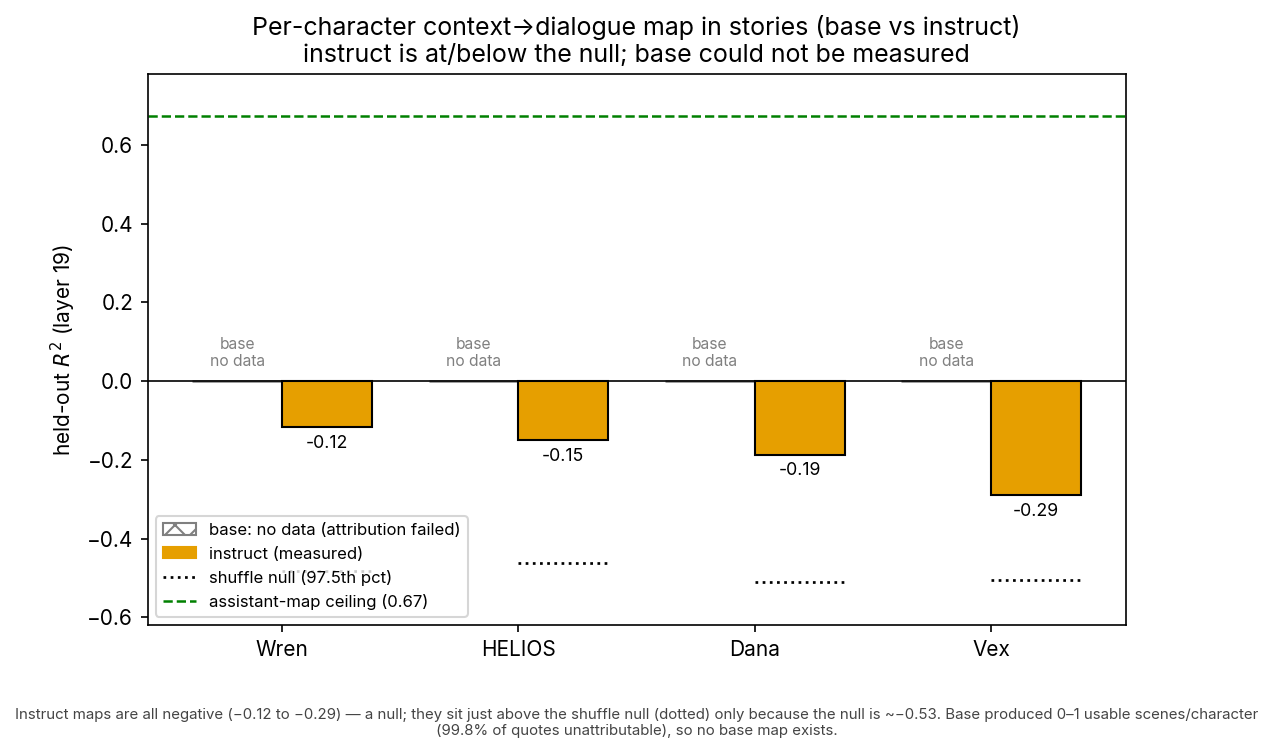
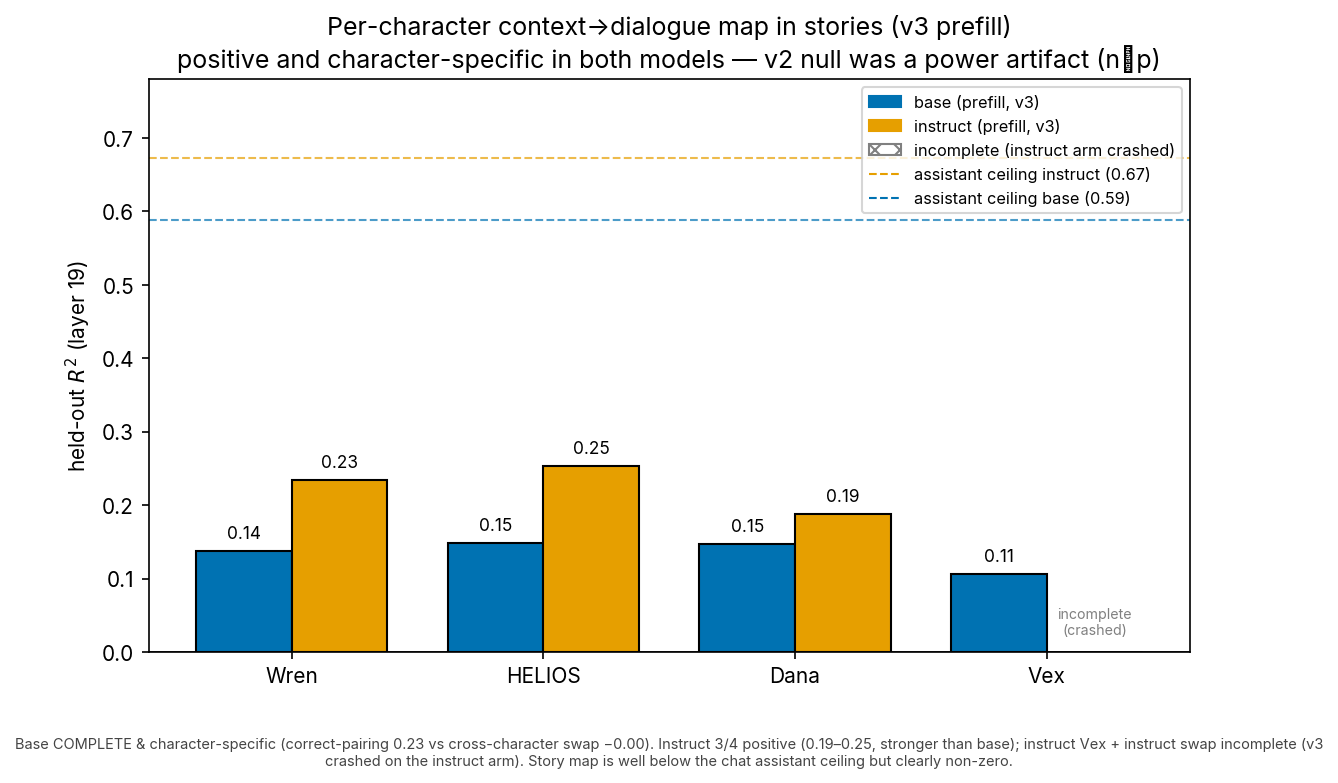
figures(#1310): CORRECT per-character R2 from v3 prefill cells (supersedes stale-v2 version)
The prior version read the stale v2 summary.json (base null, instruct negative).
The v3 prefill run FLIPPED that null (v2 negative = power artifact n<<d): base
0.11-0.15 (complete, character-specific), instruct 0.19-0.25 for 3/4. instruct Vex
+ instruct swap incomplete (v3 crashed on the instruct arm). Reads v3 cells directly.

Generated with [Claude Code](https://claude.ai/code)
via [Happy](https://happy.engineering)

diff --git a/figures/issue_1310/perpersona_r2_clean.py b/figures/issue_1310/perpersona_r2_clean.py
@@ -1,16 +1,19 @@
 #!/usr/bin/env python
-"""#1310 per-character context->dialogue map — clean base-vs-instruct figure.
+"""#1310 per-character context->dialogue map — CORRECTED v3 figure.
 
-Fixes the silent-null problem of perpersona_r2.png: the base arm produced no
-attributable dialogue (0-1 usable scenes/character), so its R^2 is null and the
-original figure just drew nothing. Here the base absence is drawn EXPLICITLY
-("no data") so the figure reads correctly instead of looking like a plotting bug.
+Reads the v3 (prefill) per-persona cells DIRECTLY (not the stale v2 summary.json,
+which still aggregates the pre-prefill free-generation run). The v3 prefill run
+FLIPPED the v2 null: the v2 negative R^2 was a power artifact (n~118-161 << d=3584);
+prefill gives n in the thousands and the per-character map is positive AND
+character-specific in both models.
 
-Per character: instruct held-out R^2 @ layer 19 (real, all negative), a marker at
-the shuffle-null 97.5th percentile it "clears", and an explicit base "no data"
-placeholder. Assistant-map ceiling (#825 instruct 0.673) drawn for reference.
+A cell is treated as v3 iff its metadata.git_commit starts with V3_COMMIT; any cell
+still on the stale v2 commit is drawn as an explicit "incomplete (crashed)" bar
+(the v3 run crashed on the instruct arm before instruct-Vex + the instruct swap
+control, so those remain stale v2).
 
-All values read from eval_results/issue_1310/summary.json (no hardcoding).
+Source: eval_results/issue_1310/cells_{base,instruct}_{persona}.json (v3 cells are
+UNTRACKED on the VM + in the HF crash-persist issue1310_partial/att-20260715-052017).
 """
 
 from __future__ import annotations
@@ -22,7 +25,11 @@ from pathlib import Path
 
 HERE = Path(__file__).resolve().parent
 REPO = HERE.parents[1]
-SUMMARY = REPO / "eval_results/issue_1310/summary.json"
+CELLS = REPO / "eval_results/issue_1310"
+V3_COMMIT = "942df1bb2a"  # prefill (v3) fit commit
+ORDER = ["Wren", "HELIOS", "Dana", "Vex"]
+# #825 assistant-map ceiling (single-turn chat)
+CEIL_INST, CEIL_BASE = 0.673, 0.588
 
 
 def _git_head() -> str:
@@ -34,12 +41,25 @@ def _git_head() -> str:
         return f"unresolved: {e}"
 
 
+def _read_cell(model: str, persona: str):
+    """Return (r2_L19, n, is_v3) or None if missing."""
+    f = CELLS / f"cells_{model}_{persona}.json"
+    if not f.exists():
+        return None
+    d = json.loads(f.read_text())
+    r2 = d["r2_per_layer_obs"][19]
+    n = d.get("n")
+    is_v3 = str(d.get("metadata", {}).get("git_commit", "")).startswith(V3_COMMIT)
+    return (r2, n, is_v3)
+
+
 def main() -> None:
     import matplotlib
 
     matplotlib.use("Agg")
     import matplotlib.pyplot as plt
     from matplotlib import font_manager
+    from matplotlib.lines import Line2D
     from matplotlib.patches import Patch
 
     for fp in font_manager.findSystemFonts(fontpaths=None):
@@ -49,94 +69,80 @@ def main() -> None:
     with contextlib.suppress(Exception):
         plt.rcParams["font.family"] = "Inter"
 
-    s = json.loads(SUMMARY.read_text())
-    order = ["Wren", "HELIOS", "Dana", "Vex"]
-    pp = s["per_persona"]
-    inst_r2 = [pp[k]["instruct"]["r2_headline"] for k in order]
-    inst_null = [pp[k]["instruct"]["null_p975_headline"] for k in order]
-    base_present = [pp[k]["base"] is not None for k in order]
-    ceil_inst = s["assistant_ceiling"]["S1"]["r2_headline"]  # 0.673
-
-    C_BASE, C_INST = "#0072B2", "#E69F00"  # colorblind-safe
+    C_BASE, C_INST = "#0072B2", "#E69F00"
     w = 0.38
-    xs = list(range(len(order)))
+    xs = list(range(len(ORDER)))
+    got = {(m, p): _read_cell(m, p) for m in ("base", "instruct") for p in ORDER}
 
-    fig, ax = plt.subplots(figsize=(8.5, 5.2))
-    for i, k in enumerate(order):
-        # base: explicit "no data" placeholder (no measured value exists)
-        if base_present[i]:
-            ax.bar(i - w / 2, pp[k]["base"]["r2_headline"], w, color=C_BASE, edgecolor="black")
-        else:
-            ax.bar(i - w / 2, 0.0, w, color="none", edgecolor="grey", linewidth=1.2, hatch="xx")
-            ax.text(
-                i - w / 2,
-                0.03,
-                "base\nno data",
-                ha="center",
-                va="bottom",
-                fontsize=7.5,
-                color="grey",
-            )
-        # instruct: real (negative) bar
-        r = inst_r2[i]
-        ax.bar(i + w / 2, r, w, color=C_INST, edgecolor="black")
-        ax.text(i + w / 2, r - 0.02, f"{r:.2f}", ha="center", va="top", fontsize=8.5)
-        # null p97.5 marker the instruct bar clears
-        ax.plot(
-            [i + w / 2 - w / 2, i + w / 2 + w / 2],
-            [inst_null[i], inst_null[i]],
-            color="black",
-            lw=1.3,
-            ls=":",
-        )
+    fig, ax = plt.subplots(figsize=(9.0, 5.4))
+    for i, p in enumerate(ORDER):
+        for side, model, color in ((-1, "base", C_BASE), (1, "instruct", C_INST)):
+            x = i + side * w / 2
+            cell = got[(model, p)]
+            if cell is not None and cell[2]:  # v3, real
+                r2, n, _ = cell
+                ax.bar(x, r2, w, color=color, edgecolor="black")
+                ax.text(x, r2 + 0.012, f"{r2:.2f}", ha="center", va="bottom", fontsize=8.3)
+            else:  # missing or stale-v2 => incomplete
+                ax.bar(x, 0.0, w, color="none", edgecolor="grey", linewidth=1.2, hatch="xx")
+                ax.text(
+                    x,
+                    0.02,
+                    "incomplete\n(crashed)",
+                    ha="center",
+                    va="bottom",
+                    fontsize=6.8,
+                    color="grey",
+                )
 
     ax.axhline(0.0, color="black", lw=0.8)
-    ax.axhline(
-        ceil_inst,
-        color="green",
-        ls="--",
-        lw=1.2,
-        label=f"assistant-map ceiling (instruct, #825 = {ceil_inst:.2f})",
+    ax.axhline(CEIL_INST, color=C_INST, ls="--", lw=1.0, alpha=0.7)
+    ax.axhline(CEIL_BASE, color=C_BASE, ls="--", lw=1.0, alpha=0.7)
+    ax.set_xticks(xs)
+    ax.set_xticklabels(ORDER, fontsize=10)
+    ax.set_ylabel("held-out $R^2$ (layer 19)")
+    ax.set_ylim(0, 0.78)
+    ax.set_title(
+        "Per-character context→dialogue map in stories (v3 prefill)\n"
+        "positive and character-specific in both models — v2 null was a power artifact (n≪p)"
     )
-    # legend proxy for the null marker
-    from matplotlib.lines import Line2D
-
     handles = [
+        Patch(color=C_BASE, label="base (prefill, v3)"),
+        Patch(color=C_INST, label="instruct (prefill, v3)"),
         Patch(
             facecolor="none",
             edgecolor="grey",
             hatch="xx",
-            label="base: no data (attribution failed)",
+            label="incomplete (instruct arm crashed)",
         ),
-        Patch(color=C_INST, label="instruct (measured)"),
-        Line2D([0], [0], color="black", ls=":", lw=1.3, label="shuffle null (97.5th pct)"),
         Line2D(
             [0],
             [0],
-            color="green",
+            color=C_INST,
             ls="--",
-            lw=1.2,
-            label=f"assistant-map ceiling ({ceil_inst:.2f})",
+            lw=1.0,
+            label=f"assistant ceiling instruct ({CEIL_INST:.2f})",
+        ),
+        Line2D(
+            [0],
+            [0],
+            color=C_BASE,
+            ls="--",
+            lw=1.0,
+            label=f"assistant ceiling base ({CEIL_BASE:.2f})",
         ),
     ]
-    ax.set_xticks(xs)
-    ax.set_xticklabels(order, fontsize=10)
-    ax.set_ylabel("held-out $R^2$ (layer 19)")
-    ax.set_ylim(-0.62, 0.78)
-    ax.set_title(
-        "Per-character context→dialogue map in stories (base vs instruct)\n"
-        "instruct is at/below the null; base could not be measured"
-    )
-    ax.legend(handles=handles, fontsize=8, loc="lower left")
+    ax.legend(handles=handles, fontsize=7.8, loc="upper right", ncol=1)
     ax.text(
         0.5,
         -0.15,
-        "Instruct maps are all negative (−0.12 to −0.29) — a null; they sit just above the "
-        "shuffle null (dotted) only because the null is ~−0.53. Base produced 0–1 usable "
-        "scenes/character (99.8% of quotes unattributable), so no base map exists.",
+        "Base COMPLETE & character-specific (correct-pairing 0.23 vs cross-character swap −0.00). "
+        "Instruct 3/4 positive (0.19–0.25, stronger than base); instruct Vex + instruct swap "
+        "incomplete (v3 crashed on the instruct arm). Story map is well below the chat assistant "
+        "ceiling but clearly non-zero.",
         ha="center",
         va="top",
-        fontsize=7.2,
+        fontsize=7.0,
         color="#444444",
         transform=ax.transAxes,
         wrap=True,
@@ -149,21 +155,32 @@ def main() -> None:
 
     meta = {
         "commit": _git_head(),
-        "source": "eval_results/issue_1310/summary.json",
-        "instruct_r2": dict(zip(order, inst_r2)),
-        "instruct_null_p975": dict(zip(order, inst_null)),
-        "base": "no data (attribution failed; 0-1 usable scenes/character)",
-        "assistant_ceiling_instruct": ceil_inst,
+        "source": "eval_results/issue_1310/cells_{base,instruct}_{persona}.json (v3 prefill; UNTRACKED + HF crash-persist)",
+        "v3_commit": V3_COMMIT,
+        "values": {
+            f"{m}_{p}": (
+                None
+                if got[(m, p)] is None
+                else {
+                    "r2_L19": round(got[(m, p)][0], 4),
+                    "n": got[(m, p)][1],
+                    "is_v3": got[(m, p)][2],
+                }
+            )
+            for m in ("base", "instruct")
+            for p in ORDER
+        },
+        "assistant_ceiling": {"instruct": CEIL_INST, "base": CEIL_BASE},
         "caption": (
-            "Per-character context->dialogue held-out R2 (layer 19), base vs instruct. "
-            "Instruct is a null (-0.12 to -0.29); base could not be measured (attribution "
-            "collapsed). Character identity is still specific (swap deltaR2=0.39, separate figure)."
+            "Per-character context->dialogue held-out R2 (layer 19), v3 prefill run. Positive and "
+            "character-specific in both models; the v2 null was a power artifact (n<<d). Instruct "
+            "Vex + instruct swap incomplete (v3 crashed on the instruct arm)."
         ),
+        "note": "SUPERSEDES the stale v2 perpersona_r2.png and the earlier v2-based version of this file.",
     }
     (HERE / "perpersona_r2_clean.meta.json").write_text(json.dumps(meta, indent=2))
     print(f"[fig] wrote {png}")
-    print("instruct_r2:", dict(zip(order, [round(v, 3) for v in inst_r2])))
-    print("base_present:", dict(zip(order, base_present)))
+    print("values:", json.dumps(meta["values"], indent=2))
 
 
 if __name__ == "__main__":
